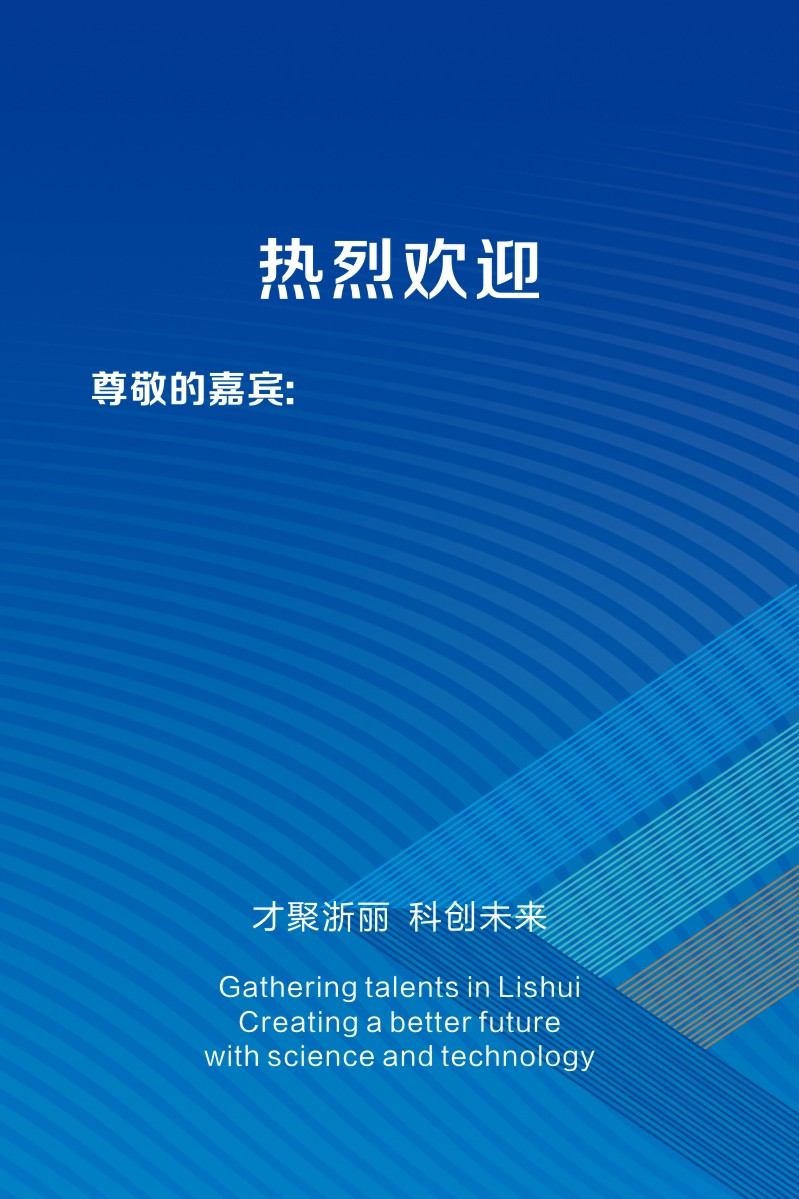
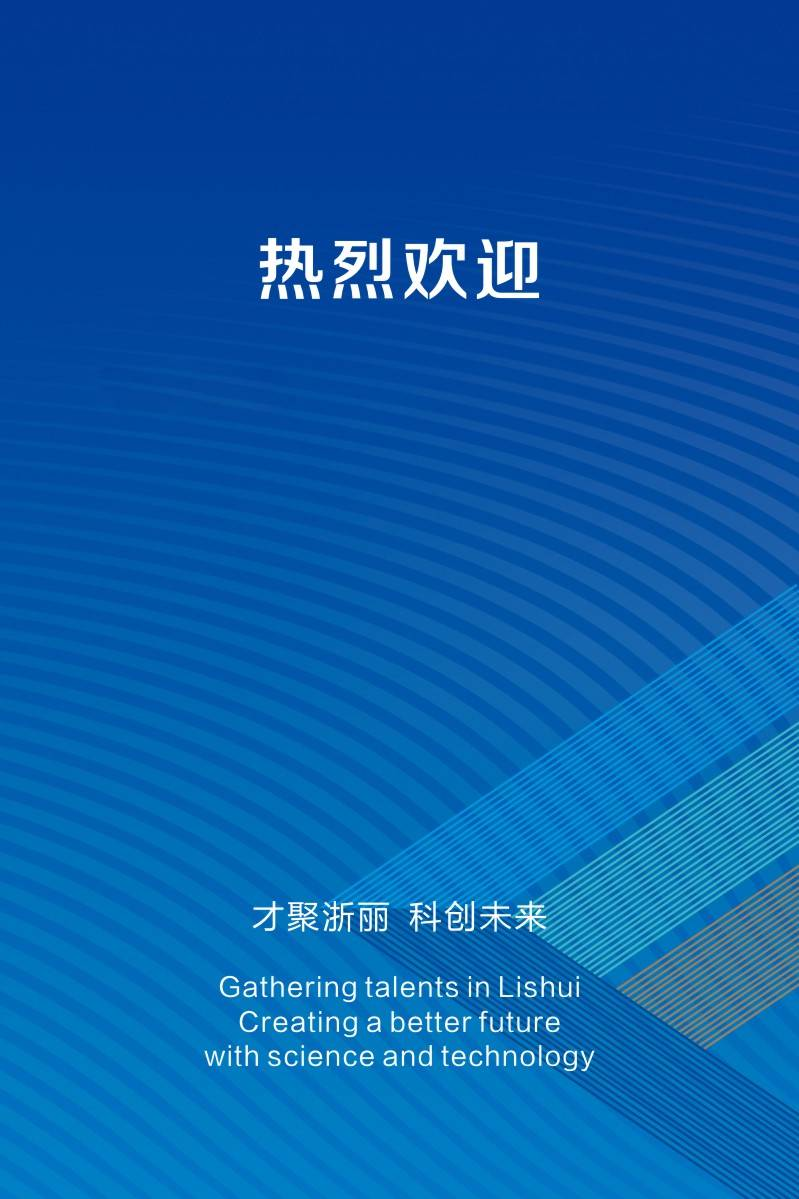
压缩图片

diff --git a/css/detail.css b/css/detail.css
@@ -3,7 +3,7 @@
   width: 100vw;
   height: 100vh;
   font-size: 0.12rem;
-  background: url(../images/two1.jpg) no-repeat 50% 50% / 100% 100%;
+  background: url(../images/two.jpg) no-repeat 50% 50% / 100% 100%;
   background-size: cover;
 }
 .name {
